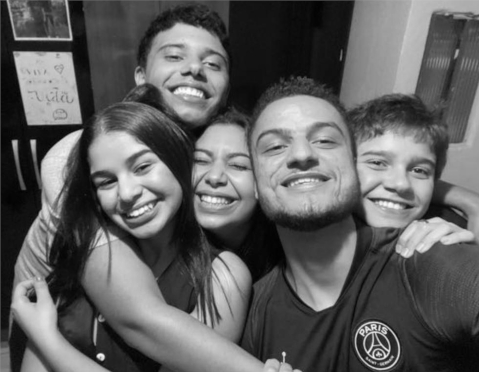
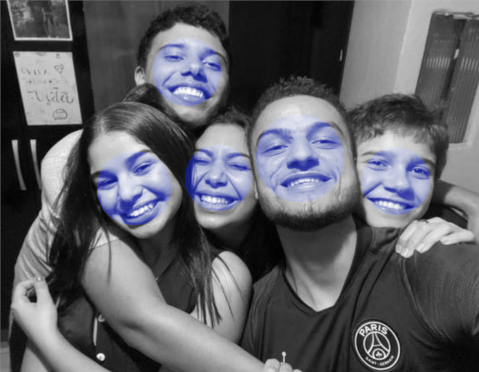
finalizando pagina amigos.html e colocando poemas.

Changed region(s): [[0.2046, 0.3253, 0.7307, 0.621], [0.7307, 0.3844, 0.9061, 0.5914], [0.3215, 0.1183, 0.4676, 0.2957]]

diff --git a/integrantes.html b/integrantes.html
@@ -28,6 +28,7 @@
 		}
 
 		article {
+			margin-top: -8px;
 			margin-bottom: 800px;
 			text-align: center;
 			margin-right: auto;
@@ -35,61 +36,106 @@
 		}
 
 		img#isa {
-			width: 300px;
-			height: 380px;
+			width: 200px;
+			height: 240px;
 		}
 
 		img#nana {
-			width: 300px;
-			height: 380px;	
+			width: 200px;
+			height: 240px;	
 		}
 
 		img#jp {
-			width: 330px;
-			height: 350px;
+			width: 210px;
+			height: 230px;
 		}
 		
 		img#sasa {
-			width: 330px;
-			height: 350px;
+			width: 210px;
+			height: 230px;
 		}
 
 		img#vitaum {
-			width: 300px;
-			height: 380px;
+			width: 200px;
+			height: 240px;
+		}
+
+		img#lampada {
+			width: 240px;
+			height: 240px;
+			border: none;
+		}
+
+		img {
+			/*box-shadow: 1px 1px 1px #5271ff;*/
+			border: 1px #5271ff dashed;
+			padding: 4px;
 		}
 	</style>
 </head>
 <body>
 
+<article id="inicial">
+	<img id="lampada" src="_images/Icons/lamp_logo.png">
+	<p>Clique sobre as áreas demarcadas em azul para ler um breve poema sobre cada participante.</p>
+</article>
+
 <article id="isabela">
 	<img id="isa" src="_images/isabela.jpg">
-	<h1>Isabela 'Isa' Camila</h1>
-	<p>Lorem Ipsum is simply dummy text of the printing and typesetting industry. Lorem Ipsum has been the industry's standard dummy text ever since the 1500s, when an unknown printer took a galley of type and scrambled it to make a type specimen book. It has survived not only five centuries, but also the leap into electronic typesetting, remaining essentially unchanged.</p>
+	<h1>Isa</h1>
+	<p>Minha querida Isa, quando estou com você<br>
+	Sinto uma brisa<br>
+	Brisa de verão, uma coisa muito boa<br>
+	Que quando está por perto, nos faz rir atoa<br>
+	Que mesmo sendo dura e sincera as vezes<br>
+	Tem uma inteligência enorme<br>
+	A ponto de ganhar vários jogos de xadrezes.</p>
 </article>
 
 <article id="naisse">
 	<img id="nana" src="_images/naisse.jpg">
-	<h1>Naisse 'Nana' Costa</h1>
-	<p>Lorem Ipsum is simply dummy text of the printing and typesetting industry. Lorem Ipsum has been the industry's standard dummy text ever since the 1500s, when an unknown printer took a galley of type and scrambled it to make a type specimen book. It has survived not only five centuries, but also the leap into electronic typesetting, remaining essentially unchanged.</p>
+	<h1>Nana</h1>
+	<p>Com sua simpatia e amizade<br>
+	É muito dedicada e nunca faz nada pela metade<br>
+	Obrigado por ser minha dupla na cantoria<br>
+	E quando preciso de conselhos<br>
+	Me presenteia com sua sabedoria<br>
+	Que mesmo quando cai<br>
+	Do nosso coração nunca sai.</p>
 </article>
 
 <article id="joao">
 	<img id="jp" src="_images/joao.jpg">
-	<h1>João 'JP' Pedro</h1>
-	<p>Lorem Ipsum is simply dummy text of the printing and typesetting industry. Lorem Ipsum has been the industry's standard dummy text ever since the 1500s, when an unknown printer took a galley of type and scrambled it to make a type specimen book. It has survived not only five centuries, but also the leap into electronic typesetting, remaining essentially unchanged.</p>
+	<h1>JP</h1>
+	<p>O que seria de mim, meu mano, sem você<br>
+	Que sempre está comigo, não importa o proceder<br>
+	Que é um cara engraçado e bacana<br>
+	E nunca recusa um rolê<br>
+	Te amo muito primão, que tá mais pra um irmão<br>
+	Nossa parceria é tudo de bão.</p>
 </article>
 
 <article id="samuel">
 	<img id="sasa" src="_images/samuel.jpg">
-	<h1>Samuel 'Sasa' Oliveira</h1>
-	<p>Lorem Ipsum is simply dummy text of the printing and typesetting industry. Lorem Ipsum has been the industry's standard dummy text ever since the 1500s, when an unknown printer took a galley of type and scrambled it to make a type specimen book. It has survived not only five centuries, but also the leap into electronic typesetting, remaining essentially unchanged.</p>
+	<h1>Sasa</h1>
+	<p>Meu amiguinho do peito e camarada<br>
+	Parece que tem tuberculose<br> 
+	Quando da uma risada<br>
+	Todos somos parentes, Oliveiras <br>
+	Gosto muito do jeito que rimos<br> 
+	Das mesmas bobeiras.</p>
 </article>
 
 <article id="vitor">
 	<img id="vitaum" src="_images/vitor.jpg">
-	<h1>Vitor 'Vitão' Oliveira</h1>
-	<p>Lorem Ipsum is simply dummy text of the printing and typesetting industry. Lorem Ipsum has been the industry's standard dummy text ever since the 1500s, when an unknown printer took a galley of type and scrambled it to make a type specimen book. It has survived not only five centuries, but also the leap into electronic typesetting, remaining essentially unchanged.</p>
+	<h1>Vitão</h1>
+	<p>Eu sou o vitão<br>
+	Não gosto de escrever sobre mim não<br>
+	Mas vamos lá, pois este espaço<br> 
+	Não pode ficar em vão<br>
+	Sou um cara simples e meio bobão<br>
+	Porém tenho sorte de ter amigos<br>
+	Que me fazem feliz de montão.</p>
 </article>
 
 </body>

diff --git a/amigos.html b/amigos.html
@@ -29,20 +29,26 @@
 
 <section id="corpo-full">
 <h1>Integrantes do Grupo</h1>
-<p>Clique sobre cada participante para conhecer mais sobre ele!</p>
+<p>Vamos a uma pequena dedicatória a cada membro deste maravilhoso grupo!</p>
+<!-- <img id="lampada" src="_images/Icons/lamp_logo.png"> -->
+</section>
 
-<img id="lampada" src="_images/Icons/lamp_logo.png">
 
 
-<section id="conteudo">
+<section id="corpo-amigos">
 <img id="poze" src="_images/poze.jpg" usemap="#mapafoto">
 <map name="mapafoto">
-	<area shape="circle" coords="" href="integrantes.html#vitor" target="janela">
+	<area shape="circle" coords="301,157, 44" href="integrantes.html#vitor" target="janela">
+	<area shape="circle" coords="134, 189, 37" href="integrantes.html#isabela" target="janela">
+	<area shape="circle" coords="217,178, 33" href="integrantes.html#naisse" target="janela">
+	<area shape="circle" coords="395,183, 34" href="integrantes.html#samuel" target="janela">
+	<area shape="circle" coords="187,75, 34" href="integrantes.html#joao" target="janela">
 </map>
-<br><br><br>
-<iframe src="integrantes.html" name="janela" id="frame-amigos"></iframe>
 </section>
-</section>
+
+<aside id="integrantes">
+	<iframe src="integrantes.html" name="janela" id="frame-amigos" scrolling="no"></iframe>
+</aside>
 
 
 <footer id="rodape">

diff --git a/_css/amigos.css b/_css/amigos.css
@@ -1,28 +1,34 @@
 @charset "UTF-8";
 
-section#conteudo {
-	width: 1000px;
-	margin: auto;
-	overflow: hidden;
-	/*float: right;*/
+section#corpo-full {
+	padding-bottom: 20px;
 }
 
-iframe#frame-amigos {
-	width: 450px;
-	height: 700px;
-	border: none;
-	position: relative;
-	top: -412px;
-	left: 450px;
-	margin-right: 0px;
-	/*float: right;*/
-	/*top: 0px;*/
-	/*display: block;*/
+section#corpo-full h1, p {
+	text-align: center;
+}
+
+section#corpo-amigos {
+	width: 500px;
+	display: block;
+	float: left;
+	/*border: 1px solid white;*/
+}
+
+aside#integrantes {
+	display: block;
+	float: right;
+	width: 385px;
+	/*border: 1px solid white;*/
 }
 
 img#poze {
-	/*position: absolute;*/
-	/*margin-top: 160px;*/
-	width: 450px;
-	height: 350px;
+	border: 1px #545454 dashed;
+	padding: 4px;
+}
+
+iframe#frame-amigos {
+	width: 400px;
+	height: 540px;
+	border: none;
 }
